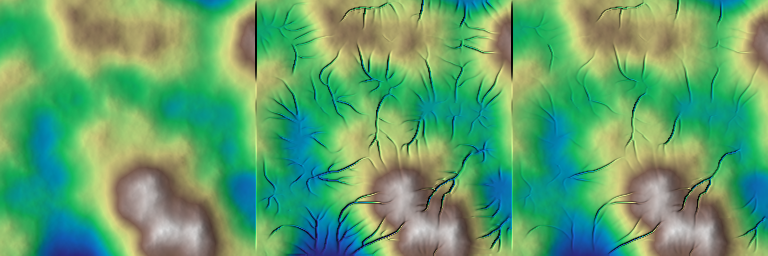
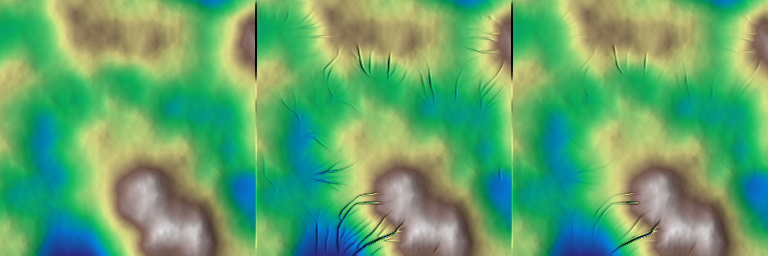
Redefine exponent in SPL law for erosion

diff --git a/examples/ex_hydraulic_spl/ex_hydraulic_spl.cpp b/examples/ex_hydraulic_spl/ex_hydraulic_spl.cpp
@@ -9,9 +9,9 @@ int main(void)
   hmap::Array z = hmap::noise_fbm(hmap::NoiseType::PERLIN, shape, res, seed);
   hmap::remap(z);
 
-  float talus_ref = 10.f / (float)shape.x;
-  float c_erosion = 0.01f;
-  int   iterations = 10;
+  float talus_ref = 1.f / (float)shape.x;
+  float c_erosion = 0.0001f;
+  int   iterations = 3;
 
   int         iradius = 64;
   hmap::Array z_bedrock = hmap::minimum_local(z, iradius);
@@ -28,7 +28,8 @@ int main(void)
                       iterations,
                       &z_bedrock,
                       &moisture_map,
-                      &erosion_map);
+                      &erosion_map,
+		      1);
 
   hmap::export_banner_png("ex_hydraulic_spl0.png",
                           {z, z1, z2},

diff --git a/HighMap/src/erosion/hydraulic_spl.cpp b/HighMap/src/erosion/hydraulic_spl.cpp
@@ -46,14 +46,14 @@ void hydraulic_spl(Array &z,
     {
       auto zf = z;
       smooth_cpulse(zf, ir);
-      dz = gradient_norm(zf);
+      dz = gradient_norm(zf) * z.shape.x;
     }
 
     if (p_moisture_map)
-      z += -c_erosion * (*p_moisture_map) * facc * dz;
+      z += -c_erosion * (*p_moisture_map) * pow(facc, 0.8f) * dz * dz;
     else
-      z += -c_erosion * facc * dz;
-
+      z += -c_erosion * pow(facc, 0.8f) * dz * dz;
+    
     if (p_bedrock)
       z = maximum(z, *p_bedrock);
     else
